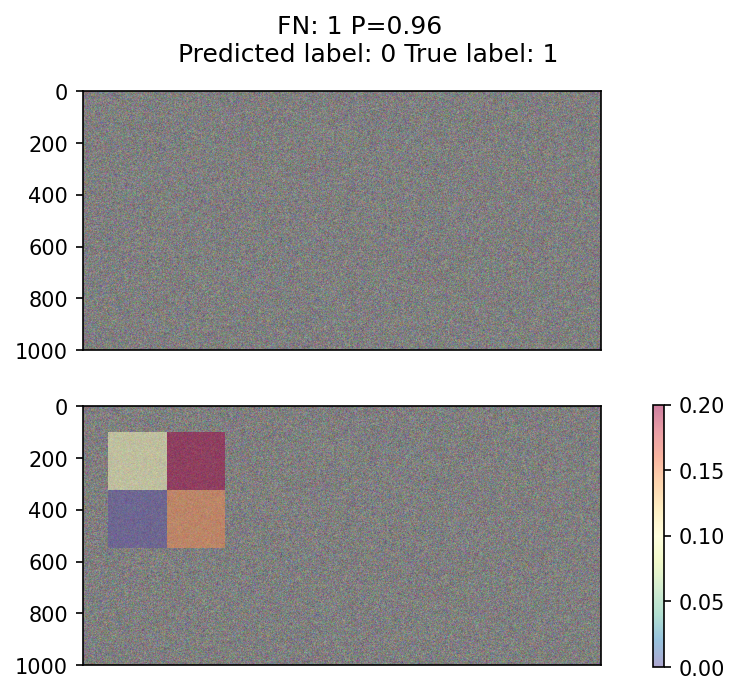
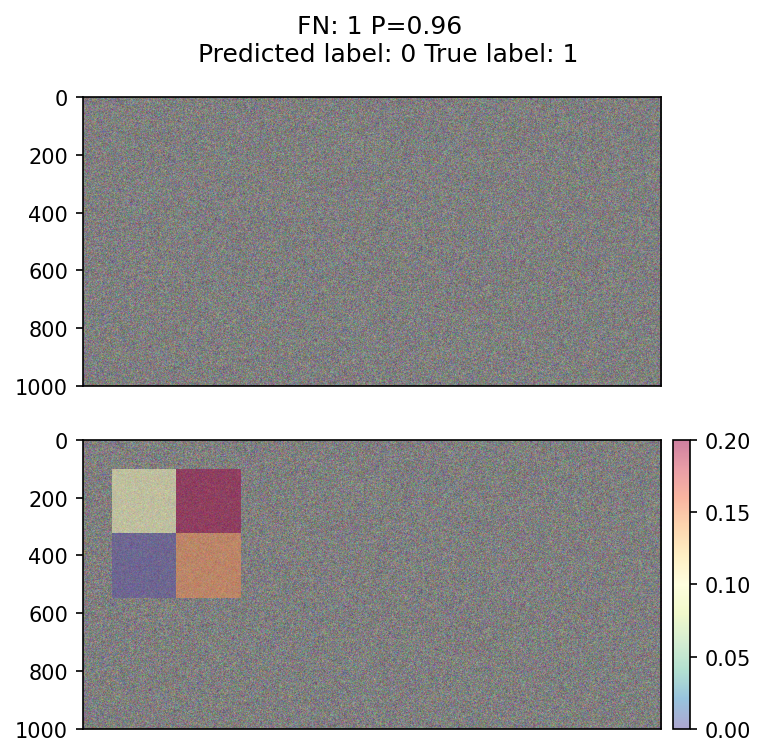
add PR comments

diff --git a/hi-ml-cpath/src/health_cpath/utils/viz_utils.py b/hi-ml-cpath/src/health_cpath/utils/viz_utils.py
@@ -178,7 +178,7 @@ def plot_heatmap_overlay(
     gs = fig.add_gridspec(2, 1)
     ax0 = fig.add_subplot(gs[0, 0])
     ax1 = fig.add_subplot(gs[1, 0], sharex=ax0, sharey=ax0)
-    cax = ax1.inset_axes([1.1, 0, 0.03, 1], transform=ax1.transAxes)  # add colorbar axis
+    cax = ax1.inset_axes([1.02, 0, 0.03, 1], transform=ax1.transAxes)  # add colorbar axis
     fig.execute_constrained_layout()
     fig.suptitle(_get_histo_plot_title(case, slide_node))
 

diff --git a/hi-ml-cpath/testhisto/testhisto/utils/test_viz_utils.py b/hi-ml-cpath/testhisto/testhisto/utils/test_viz_utils.py
@@ -252,7 +252,7 @@ def test_plot_heatmap_overlay(test_output_dirs: OutputFolderForTests) -> None:
     assert file.exists()
     expected = full_ml_test_data_path("histo_heatmaps") / "heatmap_overlay.png"
     # To update the stored results, uncomment this line:
-    expected.write_bytes(file.read_bytes())
+    # expected.write_bytes(file.read_bytes())
     assert_binary_files_match(file, expected)
 
 
